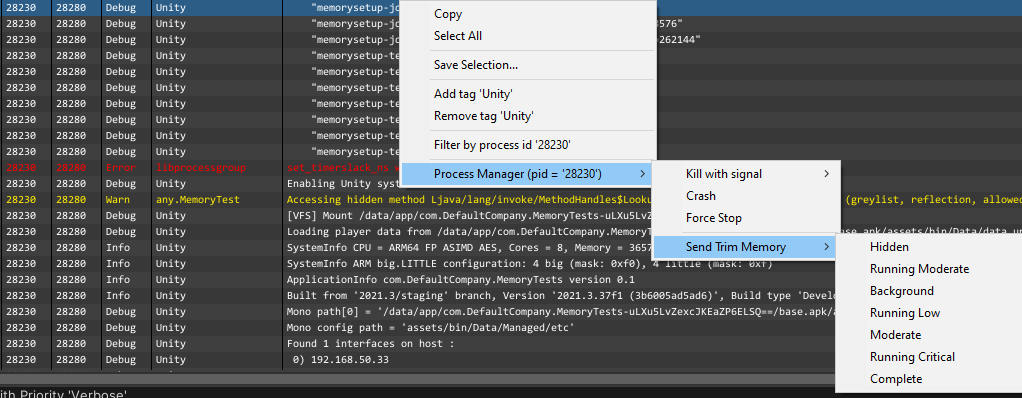
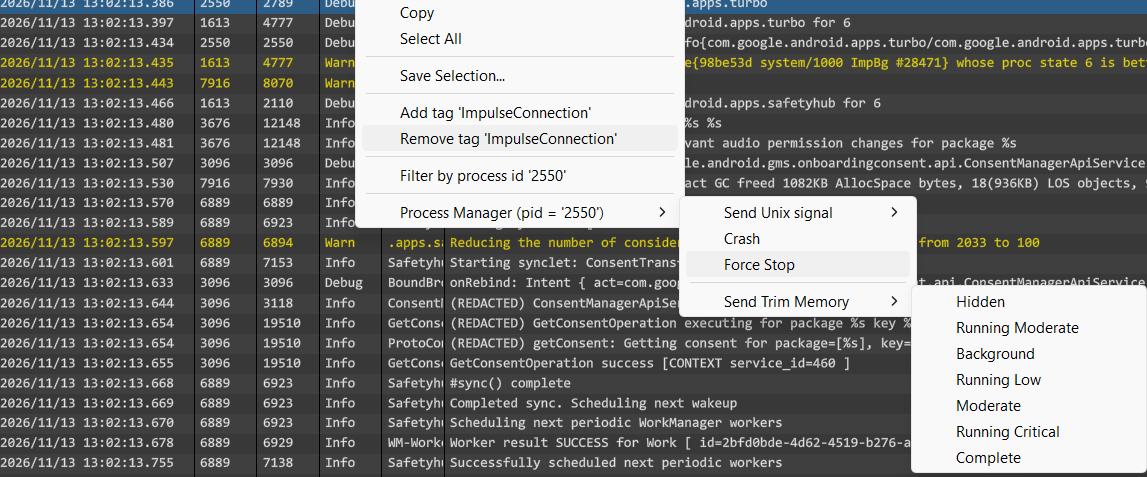
Show the Process Manager submenus in the Logcat window reference
The Send Unix signal and Send Trim Memory images were left unreferenced
by an earlier docs rewrite. The trim memory screenshot is retaken, as
the old one still showed "Kill with signal".

diff --git a/com.unity.mobile.android-logcat/Documentation~/android-logcat-window-reference.md b/com.unity.mobile.android-logcat/Documentation~/android-logcat-window-reference.md
@@ -67,6 +67,9 @@ You can access the **Process Manager** from the message log section when you rig
 
 The following options in the **Process Manager** help you to force an application to terminate.
 
+![Send Unix signal options in the Process Manager](images/android-logcat-send-unix-signal.png)
+> Send Unix signal options.
+
 | **Type** | **Description**                                              |
 | - | - |
 | **Send Unix signal** | Sends a signal to the process using command **adb shell run-as <package_name> kill -s <posix_signal> <process_id>**. For more information, refer to [standard signals](https://man7.org/linux/man-pages/man7/signal.7.html).<br><br>You can use **SIGILL**, **SIGTRAP**, **SIGABRT**, **SIGBUS**, **SIGFPE**, **SIGSEGV**, **SIGPIPE**, **SIGSTKFLT** signals to test Unity Android [crash handler](https://docs.unity3d.com/Manual/android-handle-crashes.html). |
@@ -76,6 +79,9 @@ The following options in the **Process Manager** help you to force an applicatio
 #### Send trim memory
 
 The **Send Trim Memory** option allows you to send a memory trim signal to the selected process to help you understand how your application handles low memory events. The control sends a memory trim event to a process using command **adb shell am send-trim-memory <process_id> <trim_level>**. For more information about the trim levels, refer to [Android developer documentation](https://developer.android.com/reference/android/content/ComponentCallbacks2#constants_1).
+
+![Send Trim Memory options in the Process Manager](images/android-logcat-app-trim-memory.png)
+> Send Trim Memory options.
 
 For example, by using **RUNNING_CRITICAL** trim level you can test the following Unity APIs:
 * [Application.lowMemory](https://docs.unity3d.com/ScriptReference/Application-lowMemory.html)
